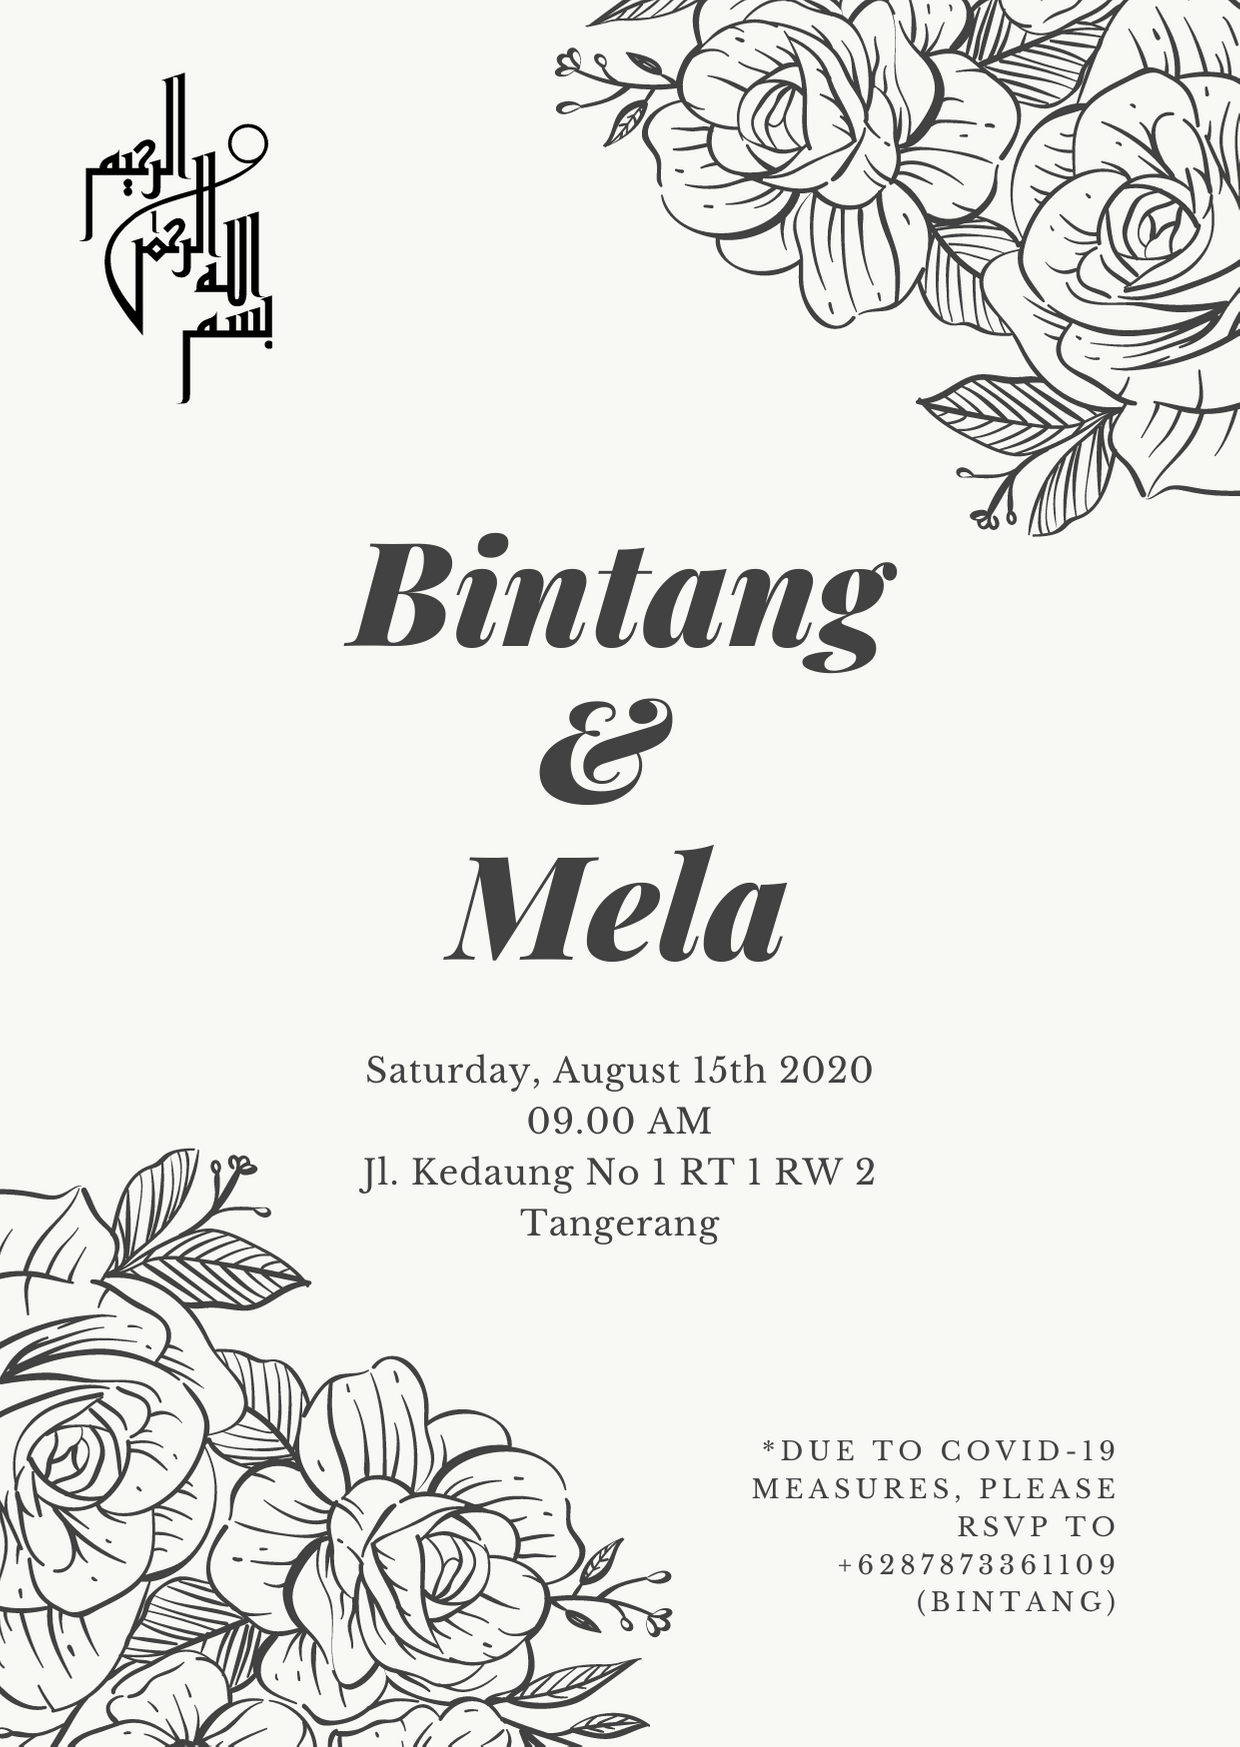
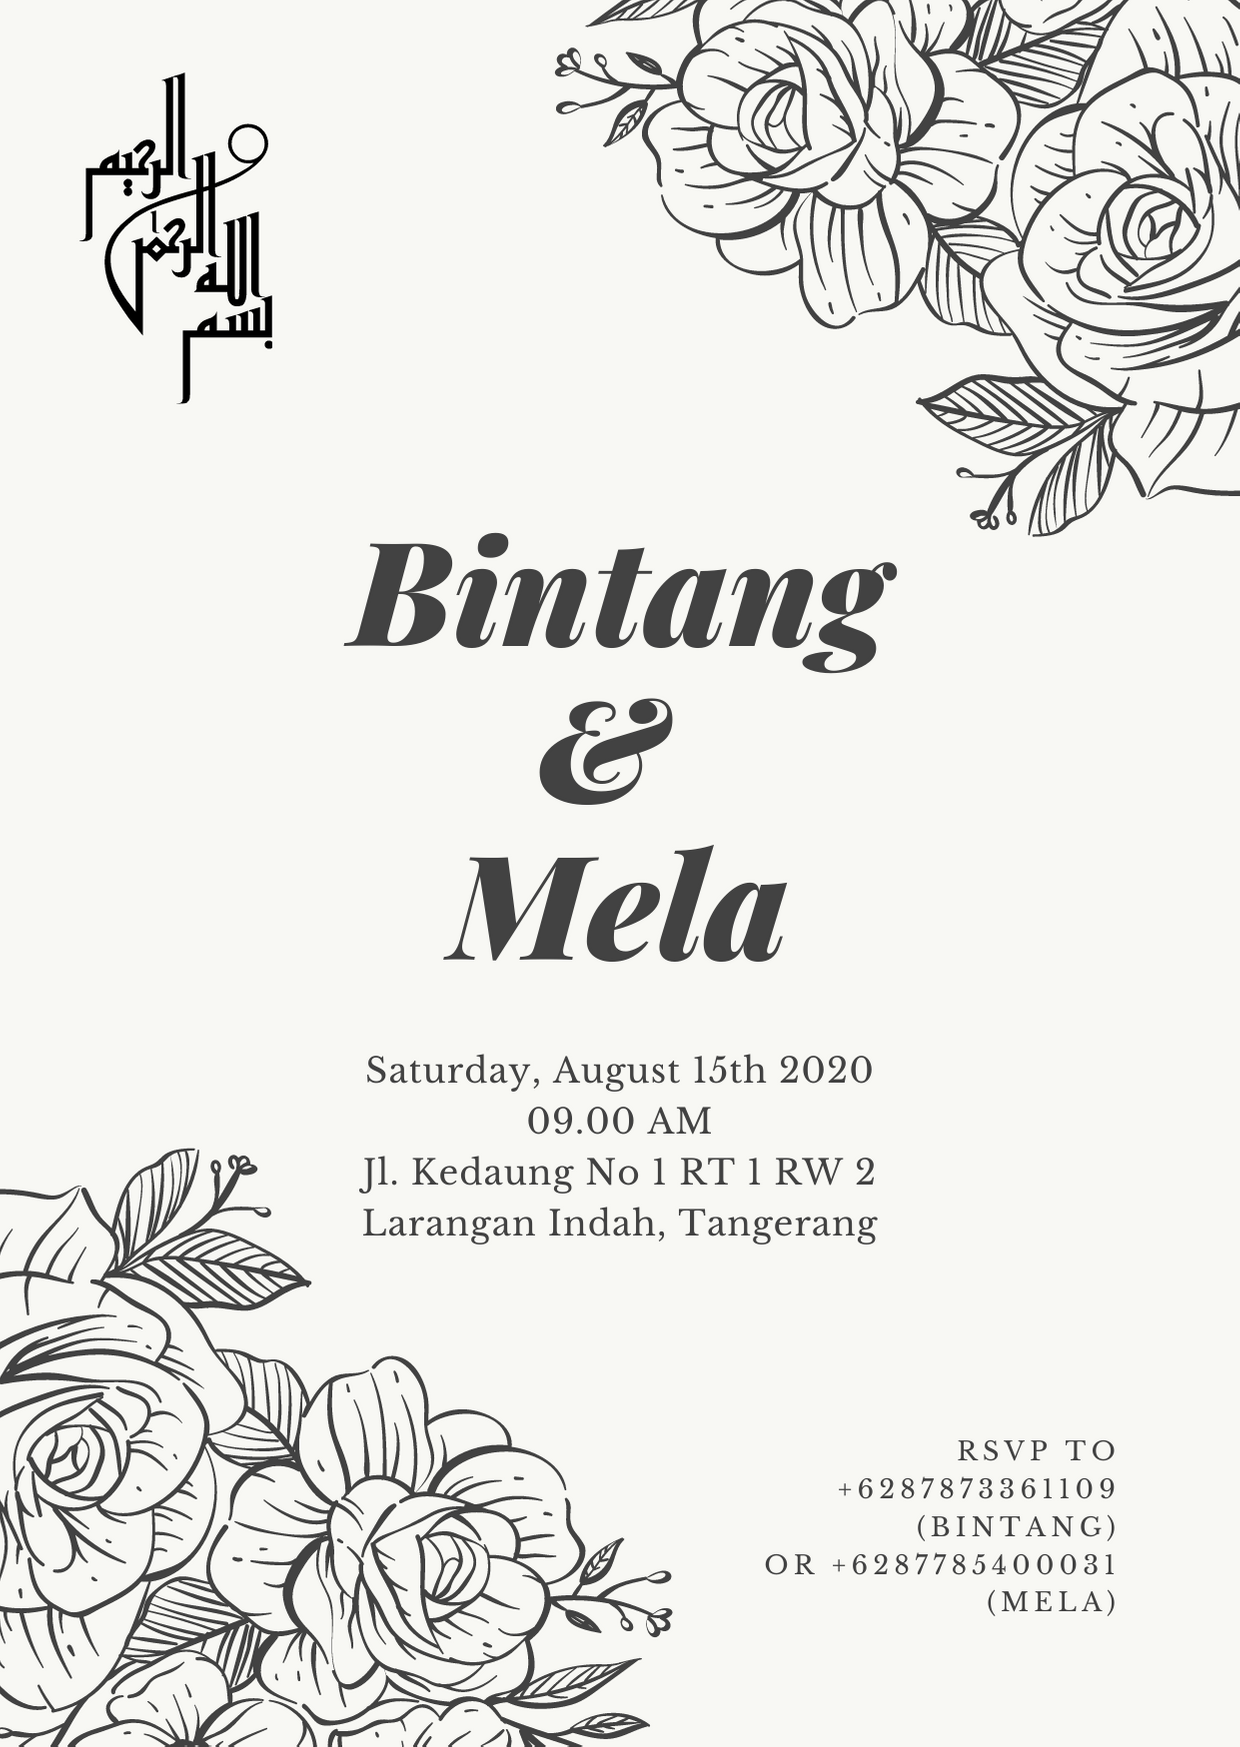
new

Changed region(s): [[0.6129, 0.8037, 0.9194, 0.9273], [0.3065, 0.68, 0.7048, 0.7109]]

diff --git a/_includes/recipes.html b/_includes/recipes.html
@@ -19,6 +19,10 @@
                     <p><i>To be announced</i></p>
                     <p>Mr. Adi Sucipto's house, Jl. Kedaung No 1 Larangan Indah, Tangerang</p>
                     <p><a href="https://goo.gl/maps/jFcMERLdLgxbjiJW6">Google Maps</a></p>
+                    <p><i>We are really sorry we cannot invite all of you to the wedding because of the ongoing COVID-19 pandemic.
+                         For those who are invited and will come, please bring your own protection gears: masks (mandatory), face shields and gloves (optional).
+                         If you feel sick or not comfortable for coming, please stay at home.
+                    </i></p>
                 </div>
                 <div class="col-md-5 col-lg-4">
                     <a href="img/recipes.pdf"><img src="img/recipes-envelope.png" srcset="img/recipes-envelope-2x.png 2x" style="max-width: 100%"></img></a>

diff --git a/_includes/registry.html b/_includes/registry.html
@@ -11,7 +11,12 @@
                         They have gone through a lot of stages: school, university, work, inter-continent long distance relationship, you name it. This is a concrete instantiaton of love.
                     </p>
 
-                    <p>They are moving to Dublin, Ireland, by the end of this year. 
+                    <p>
+                    Bintang is the 3rd child of Mr Sulaeman Soeparman and Mrs Husnul Khotimah. 
+                    Mela is the 1st child of Mr Adi Sucipto and Mrs Hamiah. 
+                    </p>
+
+                    <p>InshAllah, they are moving to Dublin, Ireland, by the end of this year. 
                         Let's hope for the best, and wish them a happy life and wonderful adventure in the new stage of life in their new place.</p>
                 </div>
             </div>

diff --git a/_includes/header.html b/_includes/header.html
@@ -19,11 +19,11 @@
                         <a href="#page-top"></a>
                     </li>
                     <li>
-                        <a class="page-scroll" href="#venue">Recipes</a>
+                        <a class="page-scroll" href="#venue">The wedding</a>
                     </li>
 
                     <li>
-                        <a class="page-scroll" href="#registry">Registry</a>
+                        <a class="page-scroll" href="#registry">Story</a>
                     </li>
 
                     <li>
